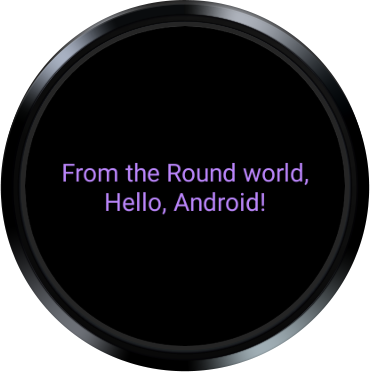
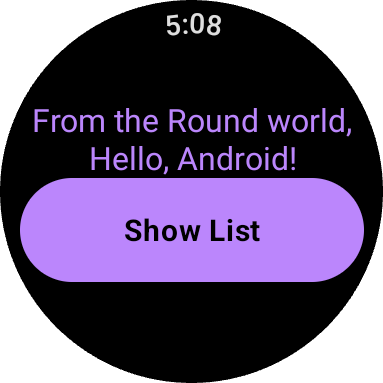
Updates screenshot and description to include list

diff --git a/ComposeStarter/app/src/main/java/com/example/android/wearable/composestarter/presentation/MainActivity.kt b/ComposeStarter/app/src/main/java/com/example/android/wearable/composestarter/presentation/MainActivity.kt
@@ -59,8 +59,8 @@ import com.google.android.horologist.compose.rotaryinput.rotaryWithScroll
 /**
  * Simple "Hello, World" app meant as a starting point for a new project using Compose for Wear OS.
  *
- * Displays only a centered [Text] composable, and the actual text varies based on the shape of the
- * device (round vs. square/rectangular).
+ * Displays a centered [Text] composable and a list built with [Horologist]
+ * (https://github.com/google/horologist).
  *
  * Use the Wear version of Compose Navigation. You can carry
  * over your knowledge from mobile and it supports the swipe-to-dismiss gesture (Wear OS's
@@ -131,7 +131,7 @@ fun ListScreen() {
 
     ScreenScaffold(scrollState = columnState) {
         /*
-         * Using the Horologist [ScalingLazyColumn] here takes care of the horizontal and vertical
+         * The Horologist [ScalingLazyColumn] takes care of the horizontal and vertical
          * padding for the list, so there is no need to specify it, as in the [GreetingScreen]
          * composable.
          */

diff --git a/ComposeStarter/README.md b/ComposeStarter/README.md
@@ -8,8 +8,8 @@ Introduction
 Simple "Hello, World" app meant as a starting point for a new project using
 Compose for Wear OS.
 
-Displays only a centered [Text] composable, and the actual text varies based on the shape of the
-device (round vs. square/rectangular).
+Displays a centered [Text] composable and a list built with [Horologist]
+(https://github.com/google/horologist).
 
 For more information on composable options in Compose for Wear OS, check out our
 [documentation](https://developer.android.com/reference/kotlin/androidx/wear/compose/material/package-summary.html).
@@ -18,8 +18,6 @@ Screenshots
 -----------
 
 <img src="screenshots/round_hello.png" height="372" alt="Round Screenshot"/>
-
-<img src="screenshots/square_hello.png" height="349" alt="Square Screenshot"/> 
 
 
 Getting Started
